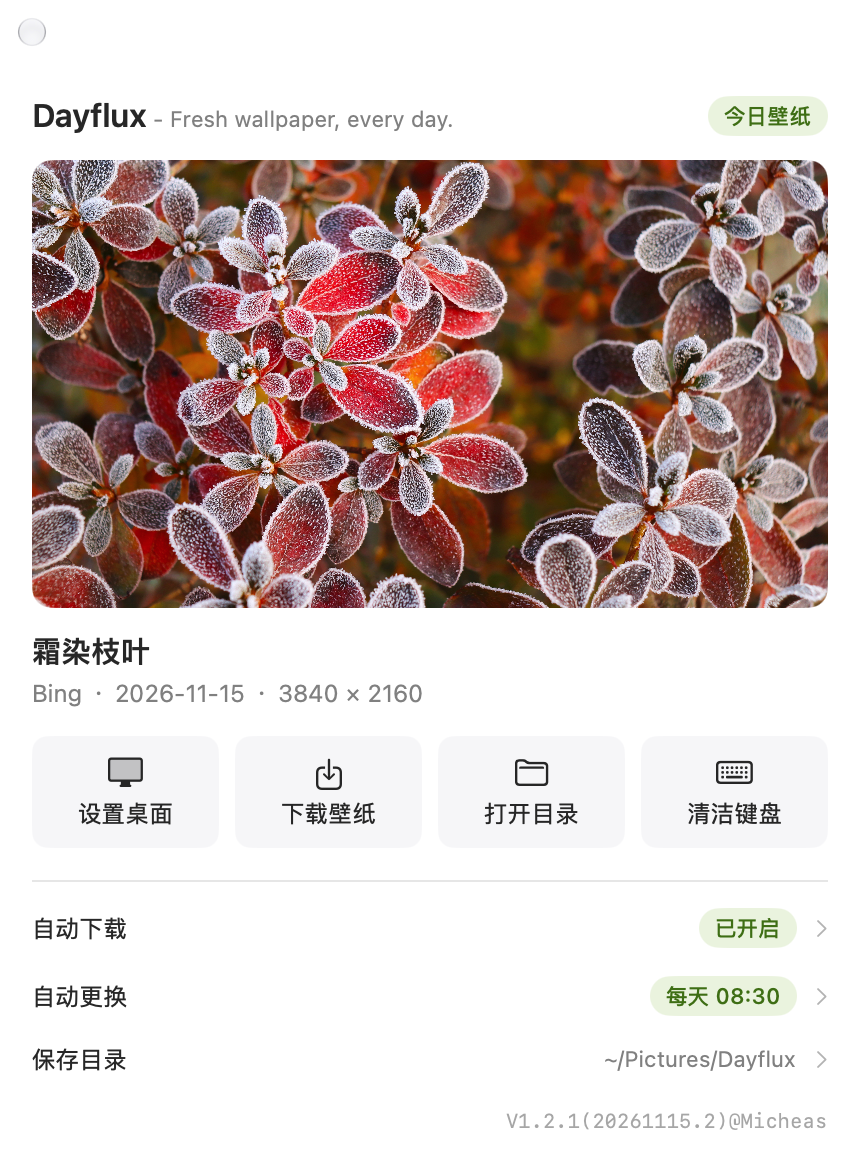
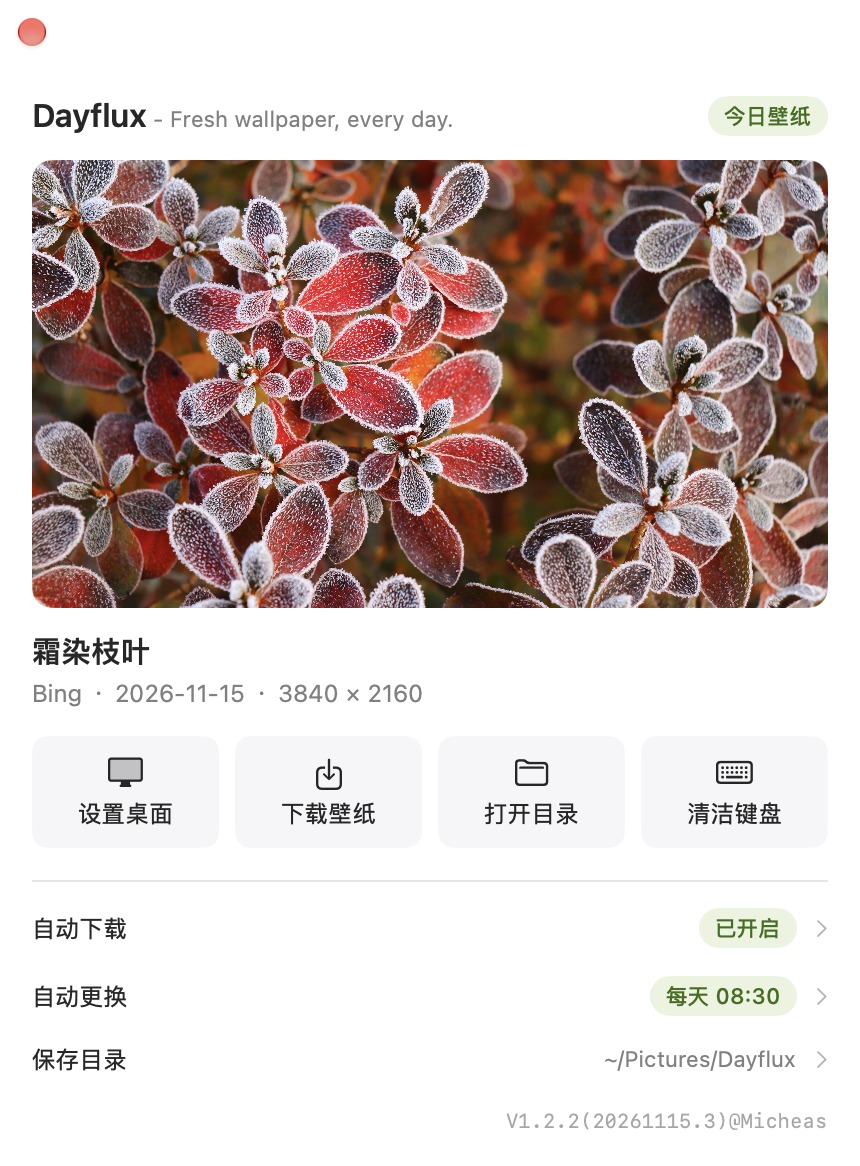
refactor: 缓存目录改名 Dayflux 并升 1.2.2；界面文案、冒烟、README 同步

diff --git a/Sources/Services.swift b/Sources/Services.swift
@@ -165,6 +165,9 @@ struct CachedImage {
 final class ImageCache {
     static let shared = ImageCache()
 
+    /// 缓存目录名（2026-11-15 起随品牌统一为 Dayflux）；界面文案与冒烟断言共用，避免路径漂移。
+    static let directoryName = "Dayflux"
+
     let directory: URL
     private let fm = FileManager.default
     private let session: URLSession = {
@@ -177,7 +180,7 @@ final class ImageCache {
         return URLSession(configuration: config)
     }()
 
-    /// directory 参数仅供隔离测试使用；正式运行固定为 ~/Library/Caches/DailyWall。
+    /// directory 参数仅供隔离测试使用；正式运行固定为 ~/Library/Caches/Dayflux。
     init(directory: URL? = nil) {
         let resolved: URL
         if let directory {
@@ -185,7 +188,7 @@ final class ImageCache {
         } else {
             let base = fm.urls(for: .cachesDirectory, in: .userDomainMask).first
                 ?? URL(fileURLWithPath: NSTemporaryDirectory())
-            resolved = base.appendingPathComponent("DailyWall", isDirectory: true)
+            resolved = base.appendingPathComponent(Self.directoryName, isDirectory: true)
         }
         self.directory = resolved
         try? Self.prepare(resolved)

diff --git a/Sources/Views.swift b/Sources/Views.swift
@@ -313,7 +313,7 @@ private enum SettingsHelp {
     static let download = "更改目录只影响之后的下载，不迁移也不删除原目录文件。同一天的重复文件默认跳过，覆盖需逐次确认。"
     static let automation = "应用常驻时每分钟检查一次，到点自动执行；关机或睡眠后恢复时按当天补一次，不追溯多日。若任务失败，5 分钟后自动重试，直到当天成功。"
     static let notification = "系统拒绝通知授权或登录启动注册失败时，下载与更换桌面仍可正常使用。"
-    static let privacy = "缓存位于 ~/Library/Caches/DailyWall，仅用于预览与重试，与保存目录分离，不存放账号凭据。壁纸版权归原权利人，接口声明「仅限用作桌面壁纸」；本应用仅供自用，不打包、不分发、不商用图片。"
+    static let privacy = "缓存位于 ~/Library/Caches/\(ImageCache.directoryName)，仅用于预览与重试，与保存目录分离，不存放账号凭据。壁纸版权归原权利人，接口声明「仅限用作桌面壁纸」；本应用仅供自用，不打包、不分发、不商用图片。"
 }
 
 /// 纯 Command Line Tools 下 SwiftUI 的 @State 宏插件不可用，

diff --git a/tools/smoke/Smoke.swift b/tools/smoke/Smoke.swift
@@ -88,6 +88,7 @@ struct Smoke {
         // 缓存目录可能被系统清理：必须能自愈，且缓存不可写时不得阻断主流程。
         // 全程使用 /tmp 下隔离目录，不触碰真实 ~/Library/Caches。
         print("\n=== 缓存目录自愈 ===")
+        check("缓存目录名随品牌统一", ImageCache.directoryName == "Dayflux")
         do {
             let fm = FileManager.default
             let isolated = URL(fileURLWithPath: NSTemporaryDirectory())

diff --git a/README.md b/README.md
@@ -1,4 +1,4 @@
-# Dayflux（自用版 1.2.1）
+# Dayflux（自用版 1.2.2）
 
 > **Dayflux — Fresh wallpaper, every day.**
 >
@@ -8,7 +8,7 @@
 
 ## 主界面
 
-![Dayflux 主界面（2026-11-13 实机截图）](tools/main-window.png)
+![Dayflux 主界面（2026-11-15 实机截图）](tools/main-window.png)
 
 > 预览区为当日 Bing 壁纸实图；四个按钮依次为 设置桌面 / 下载壁纸 / 打开目录 / 清洁键盘。窗口右下角页脚是版本号、构建日期与当天编译序号、作者署名。此截图仅用于本仓库的界面说明，不对外分发。
 
@@ -27,9 +27,9 @@
 
 ## 版本号与构建序号
 
-- 主界面右下角显示版本、构建信息与作者署名，例如 `V1.2.1(20261115.2)@Micheas` 表示：软件版本 1.2.1，2026-11-15 当天第 2 次成功编译，作者 @Micheas。
-- **三段语义化版本规则（2026-11-15 定）**：第 1 位是**大版本号**，有新增功能或大的功能性升级时修改；第 2 位用于**小的功能性调整**；第 3 位**只在纯 BUG 修复时**修改。当前 `1.2.1` 即因「缓存目录被系统清理后全天自动任务失败」这一纯 BUG 修复从 `1.2.0` 升位。
-- **版本历史**：`1.1.2` 修复唤醒后设桌面静默失败；`1.2.0` 更名 Dayflux + 设置面板单列定稿 + slogan + 壁纸前缀改 `Dayflux_`；`1.2.1`（2026-11-15）修复缓存目录被系统清理后全天自动任务失败，属纯 BUG 修复。
+- 主界面右下角显示版本、构建信息与作者署名，例如 `V1.2.2(20261115.3)@Micheas` 表示：软件版本 1.2.2，2026-11-15 当天第 3 次成功编译，作者 @Micheas。
+- **三段语义化版本规则（2026-11-15 定）**：第 1 位是**大版本号**，有新增功能或大的功能性升级时修改；第 2 位用于**小的功能性调整**；第 3 位**只在纯 BUG 修复时**修改。`1.2.1` 即因「缓存目录被系统清理后全天自动任务失败」这一纯 BUG 修复从 `1.2.0` 升位；`1.2.2` 按老板 2026-11-15 裁定，缓存目录改名视为该修复的收尾，沿用第 3 位。
+- **版本历史**：`1.1.2` 修复唤醒后设桌面静默失败；`1.2.0` 更名 Dayflux + 设置面板单列定稿 + slogan + 壁纸前缀改 `Dayflux_`；`1.2.1`（2026-11-15）修复缓存目录被系统清理后全天自动任务失败，属纯 BUG 修复；`1.2.2`（2026-11-15）缓存目录由 `~/Library/Caches/DailyWall` 改为 `~/Library/Caches/Dayflux`，属 1.2.1 修复收尾。
 - 版本号在 `build.sh` 顶部 `APP_VERSION`、署名在 `AUTHOR_TAG` 各一处维护；每次 `./build.sh` **成功**后按当天日期自动累加序号，跨天归 1，构建失败不计数（下次仍用同一号）。
 - 序号存本机 `.buildcounter`（不入库，换机从 1 开始）；`build/generated/BuildInfo.swift` 由脚本生成，界面页脚与 `Info.plist` 的 `CFBundleShortVersionString` / `CFBundleVersion` 使用同一份值。
 
@@ -68,7 +68,7 @@
 
 ## 首次使用
 
-1. 启动后应用只驻留菜单栏、不弹主窗口；左键点菜单栏图标调出主界面，顶部会提示「首次使用请选择保存目录」。默认建议目录是 `~/Pictures/Dayflux`（2026-11-13 随更名调整，仅作用于偏好为空的首次运行）；**本机已保存的偏好仍指向 `~/Pictures/DailyWall`，历史壁纸留在原处，不自动迁移、不删除**；点「选择目录」可改。
+1. 启动后应用只驻留菜单栏、不弹主窗口；左键点菜单栏图标调出主界面，顶部会提示「首次使用请选择保存目录」。默认建议目录是 `~/Pictures/Dayflux`（2026-11-13 随更名调整，仅作用于偏好为空的首次运行）；本机 `dw.directoryPath` 已指向 `~/Pictures/Dayflux`（使用者自行改名），历史壁纸完整保留，不自动迁移、不删除；点「选择目录」可改。
 2. 目录只授权给这一个路径。应用**不会**删除、移动、重命名目录里的任何文件，也不做缓存清理到该目录。
 3. **左键点击菜单栏图标直接打开主窗口**；右键才弹出菜单（今日标题、立即下载、立即设置桌面、设置、退出）。关闭主窗口不会退出应用。
 
@@ -119,7 +119,7 @@
 
 - 文件名：`Dayflux_<enddate>_zh-CN.jpg`，`enddate` 取 Bing 生效日；`idx=0&n=1` 固定，绝不为补齐历史请求其它日期。
 - 下载流程：临时文件原子写入 → JPEG 解码校验 → 原子移入目标，不产生伪完整成品。
-- 缓存仅在 `~/Library/Caches/DailyWall`，文件名以 `dw_` 开头；「清理应用缓存」只删这些文件，**不触碰保存目录**。
+- 缓存仅在 `~/Library/Caches/Dayflux`（1.2.2 起，旧名 `DailyWall` 已弃用），文件名仍以 `dw_` 开头（内部标识保留）；「清理应用缓存」只删这些文件，**不触碰保存目录**。旧目录 `~/Library/Caches/DailyWall` 不自动迁移、不删除，由系统自行清理。
 - **缓存目录自愈（2026-11-15 修复）**：系统会清理 `~/Library/Caches` 下的目录，旧版只在单例初始化时建一次，目录消失后写缓存抛 `NSCocoaErrorDomain code=4`，连带预览、下载、设桌面全部失败并每 5 分钟重试。现在每次写入前自动重建目录；缓存写入失败只记日志并降级为纯内存，图片已在内存中，主流程不受影响。
 - 错误提示同时说明发生了什么、可执行的动作、以及是否影响已有文件（一律不影响）。
 
@@ -152,7 +152,7 @@
 - 复核工具：
 
   ```bash
-  # 核心链路 + 调度策略 + 缓存自愈冒烟测试（36 项，含 8 项缓存自愈）
+  # 核心链路 + 调度策略 + 缓存自愈冒烟测试（37 项，含 9 项缓存相关）
   swiftc -O -swift-version 5 Sources/Models.swift Sources/Services.swift tools/smoke/Smoke.swift -o /tmp/dw_smoke && /tmp/dw_smoke
   # 网络出口探针（模拟无代理环境变量）
   swiftc -O -swift-version 5 -parse-as-library tools/NetProbe.swift -o /tmp/dw_netprobe
@@ -174,7 +174,7 @@
 ## 仓库与备份（2026-11-10）
 
 - 私有仓库：`https://github.com/kingdocs/dayflux`（账号 `kingdocs`，**private**），用途仅为工程与代码备份，不公开发布。旧名 `kingdocs/DailyWall` 由 GitHub 自动重定向。
-- **更名（2026-11-13）**：项目由 `DailyWall` 正式更名为 **Dayflux**，slogan 为 `Dayflux — Fresh wallpaper, every day.`；仓库 `kingdocs/DailyWall` → `kingdocs/dayflux`，工程目录 `DailyWall/` → `dayflux/`，应用 `DailyWall.app` → `Dayflux.app`，界面与文档品牌名统一为 Dayflux，版本升至 1.2.0。**内部标识保持不变**：bundle id `local.dailywall.selfuse`、`dw.*` 偏好键、缓存目录 `~/Library/Caches/DailyWall`、窗口 autosave key、自签证书 CN `DailyWall Self-Use Code Signing`。**壁纸文件名前缀自 2026-11-13 起改为 `Dayflux_`**（新下载文件为 `Dayflux_<日期>_zh-CN.jpg`），此前保存的历史文件仍用 `DailyWall_` 旧名、不重命名。默认保存目录为 `~/Pictures/Dayflux`（仅作用于偏好为空的首次运行）；本机 `dw.directoryPath` 已指向该目录，5 张历史壁纸完整保留。理由：改 bundle id 会丢偏好与 TCC 授权，改证书 CN 等于换签名身份；登录启动 `SMAppService.mainApp` 按 bundle id 注册，不受 app 改名影响。
+- **更名（2026-11-13）**：项目由 `DailyWall` 正式更名为 **Dayflux**，slogan 为 `Dayflux — Fresh wallpaper, every day.`；仓库 `kingdocs/DailyWall` → `kingdocs/dayflux`，工程目录 `DailyWall/` → `dayflux/`，应用 `DailyWall.app` → `Dayflux.app`，界面与文档品牌名统一为 Dayflux，版本升至 1.2.0。**内部标识保持不变**：bundle id `local.dailywall.selfuse`、`dw.*` 偏好键、窗口 autosave key、自签证书 CN `DailyWall Self-Use Code Signing`。**例外（老板 2026-11-15 定，1.2.2 起）**：缓存目录由 `~/Library/Caches/DailyWall` 改为 `~/Library/Caches/Dayflux`；它只是临时缓存，改名不影响偏好与 TCC 授权，旧目录不自动迁移、不删除，由系统清理。**壁纸文件名前缀自 2026-11-13 起改为 `Dayflux_`**（新下载文件为 `Dayflux_<日期>_zh-CN.jpg`），此前保存的历史文件仍用 `DailyWall_` 旧名、不重命名。默认保存目录为 `~/Pictures/Dayflux`（仅作用于偏好为空的首次运行）；本机 `dw.directoryPath` 已指向该目录，5 张历史壁纸完整保留。理由：改 bundle id 会丢偏好与 TCC 授权，改证书 CN 等于换签名身份；登录启动 `SMAppService.mainApp` 按 bundle id 注册，不受 app 改名影响。
 - **入库范围**：Swift 源码、`build.sh` / `Info.plist`、自签脚本与公钥证书、M0 核验工具与记录、图标源资产（`AppIcon.iconset` / `AppIcon.icns`）。
 - **未入库**（见 `.gitignore`）：
   - `signing/dailywall-selfsigned.p12`（私钥）与 `signing/.p12-password`（密码）—— 换机需自行补回，否则构建会报缺少密码；可用 `signing/create_selfsigned.sh` 重新生成（等于换身份）。
